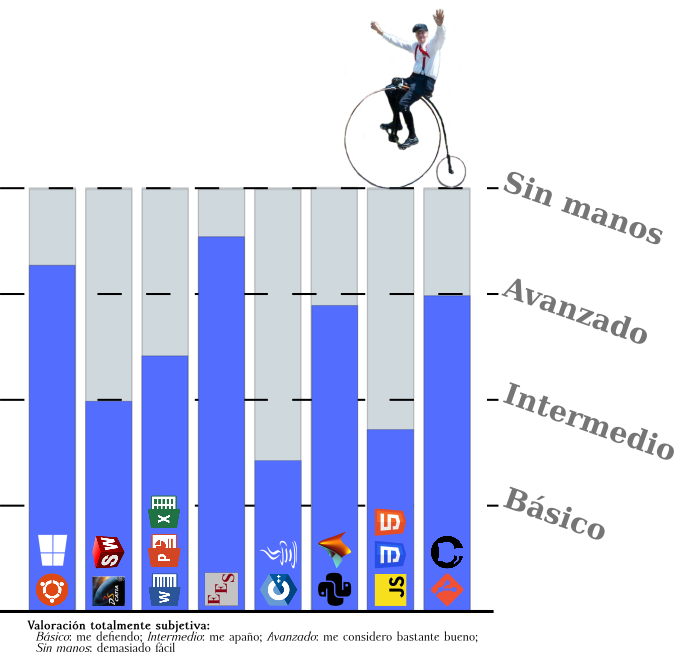
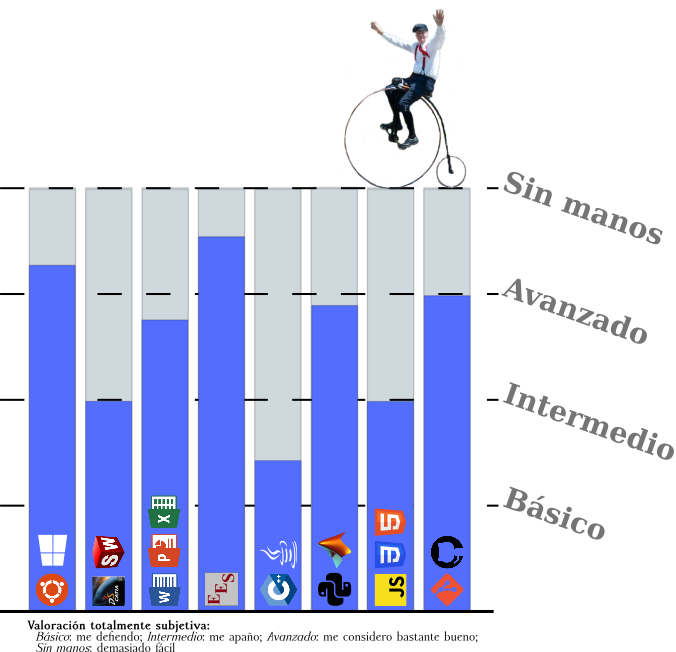
sin seccion proyectos, y excel elevado

Changed region(s): [[0.5281, 0.6135, 0.6213, 0.6748], [0.1864, 0.4908, 0.2796, 0.5521]]

diff --git a/index.html b/index.html
@@ -49,7 +49,6 @@
             <div class="collapse navbar-collapse" id="myNavbar">
                 <ul class="nav navbar-nav navbar-right pull-right">
                     <li><a href="#datos">Datos</a></li>
-                    <li><a href="#proyectos">Proyectos</a></li>
                     <li><a href="#sobremi">Sobre mí</a></li>
                     <li><a href="#contacto">Contacto</a></li>
                 </ul>
@@ -360,7 +359,7 @@
 
               </div>
               <div class="col-sm-6">
-                  <img id="graficaSkills" class="img-responsive slideanim" src="./images/skillsConNota.png"
+                  <img id="graficaSkills" class="img-responsive slideanim" src="./images/skillsConNota2.png"
                    alt="graficas skills">
               </div>
           </div>
@@ -376,7 +375,7 @@
     <!-- proyectos -->
     <!-- _____________________________________________________________________ -->
     <!-- _____________________________________________________________________ -->
-    <section id="proyectos">
+    <!-- <section id="proyectos">
       <div class="container-fluid espaciado">
         <h2 class="page-header text-right" id="header-proyectos"><b>Proyectos</b>
         (algunas cosillas que tengo documentadas)</h2>
@@ -429,7 +428,7 @@
           </div>
 
 
-          <!-- <div class="col-sm-5">
+          <div class="col-sm-5">
             <a href="./html/3enRayaOnline.html">
               <div class="thumbnail">
                 <div class="caption">
@@ -441,14 +440,14 @@
                 <img class="img-responsive" src="./images/proyectos/android.jpg" alt="imagen android">
               </div>
             </a>
-          </div> -->
+          </div>
 
 
         </div>
 
       </div>
 
-    </section>
+    </section> -->
 
     <!-- end of Proyectos -->
     <!-- _____________________________________________________________________ -->
